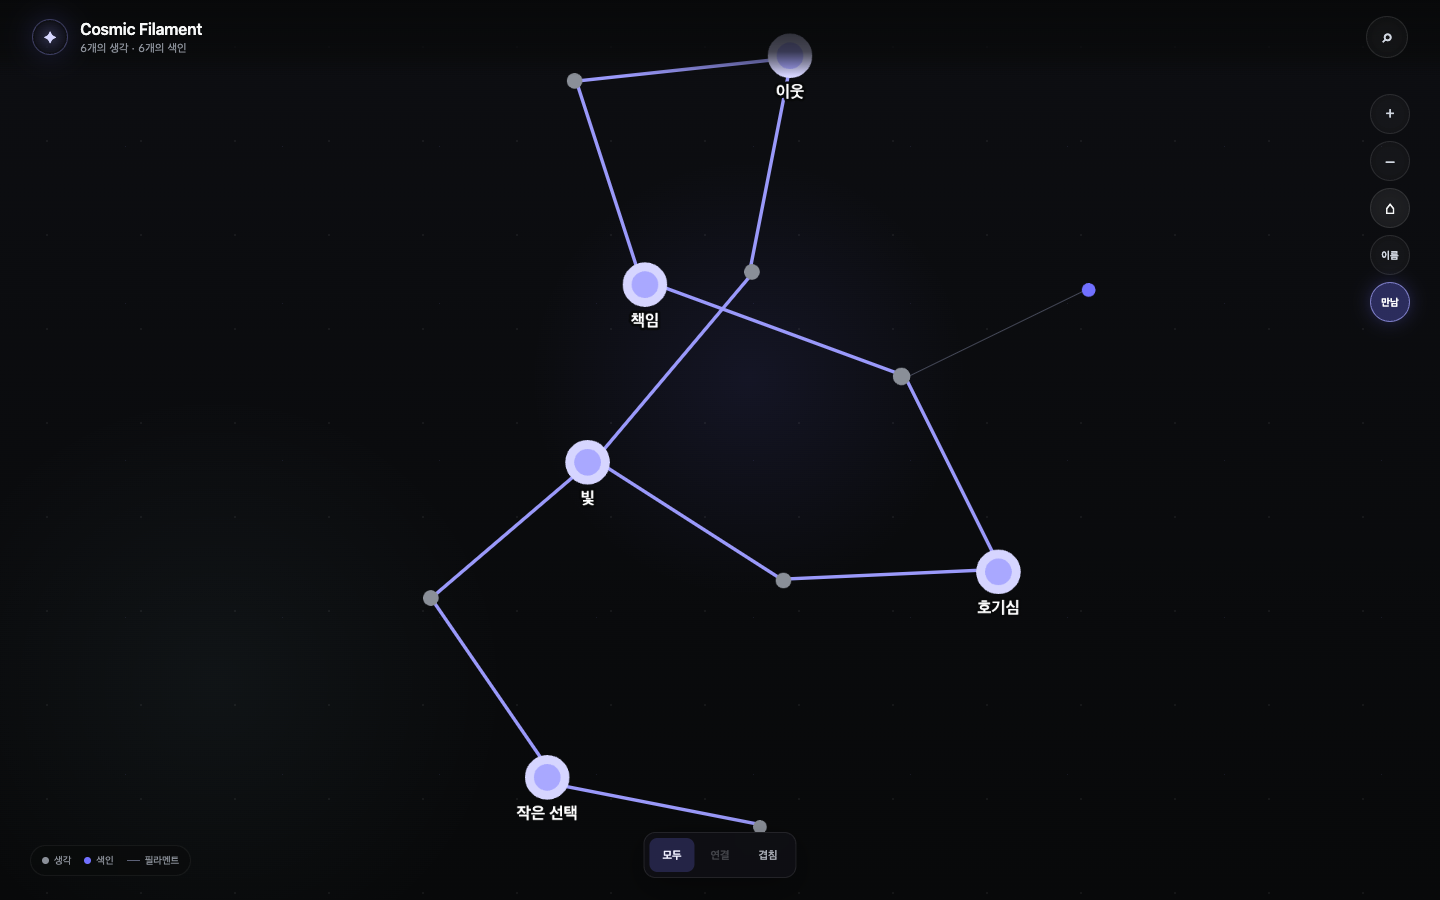
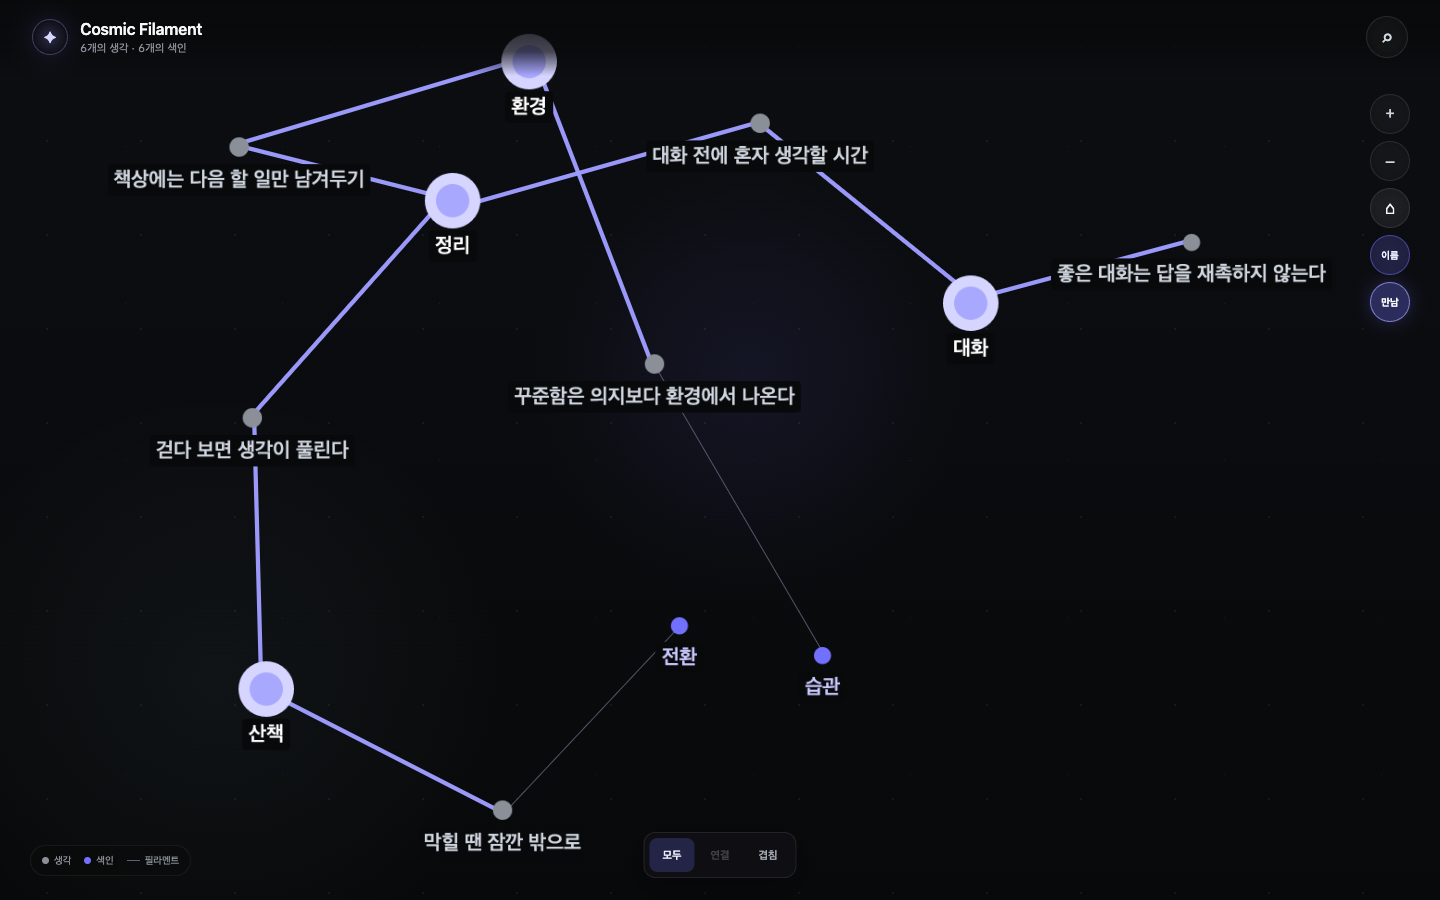
[verified] polish public example graph

diff --git a/src/components/GraphCanvas.tsx b/src/components/GraphCanvas.tsx
@@ -30,6 +30,10 @@ const graphStyle = [
       'text-opacity': 0,
       'text-outline-color': '#08090a',
       'text-outline-width': 2,
+      'text-background-color': '#08090a',
+      'text-background-opacity': 1,
+      'text-background-padding': 3,
+      'text-background-shape': 'roundrectangle',
       'text-valign': 'bottom',
       'text-margin-y': 7,
       width: 'mapData(connectionCount, 0, 8, 8, 18)',

diff --git a/public/cards/thought-light-kept-alive.md b/public/cards/thought-light-kept-alive.md
@@ -1,6 +1,7 @@
-# 나이 들어도 눈빛을 잃지 않으려면
+# 꾸준함은 의지보다 환경에서 나온다
 
-나이가 들어도 새로운 이야기에 눈을 반짝이는 사람이 있다.
-익숙한 것을 다 안다고 넘기지 않고 계속 궁금해하는 태도가 그 사람의 눈빛을 지켜주는 것 같다.
+무언가를 오래 하려면 매번 마음을 다잡아야 한다고 생각했다. 실제로는 시작하기 쉬운 자리를 만들어 두는 편이 더 도움이 됐다.
+
+운동복을 꺼내 두거나 읽을 책을 책상 위에 놓아두는 작은 준비가 다음 행동을 가볍게 만든다.
 
 > 이 카드는 공개 저장소용 가상 데이터입니다.

diff --git a/public/cards/thought-table-between-stars.md b/public/cards/thought-table-between-stars.md
@@ -1,6 +1,7 @@
-# 한 식탁에서 이웃이 되는 순간
+# 좋은 대화는 답을 재촉하지 않는다
 
-서로 살아온 방식이 달라도 한 식탁에 앉아 밥을 먹고 이야기를 나누면 조금씩 가까워진다.
-처음에는 낯설었던 사람의 표정이 밝아지고, 어느새 다음 만남을 자연스럽게 떠올리게 된다.
+대화가 꼭 결론으로 끝나야 하는 건 아니다. 어떤 이야기는 바로 정리하지 않고 잠시 그대로 두어야 더 잘 이해된다.
+
+침묵이 생겨도 불편하지 않고, 다음 말을 서두르지 않아도 되는 대화가 오래 남는다.
 
 > 이 카드는 공개 저장소용 가상 데이터입니다.

diff --git a/public/cards/thought-signal-in-darkness.md b/public/cards/thought-signal-in-darkness.md
@@ -1,6 +1,7 @@
-# 눈에 보이지 않아도 쌓이는 것
+# 걷다 보면 생각이 풀린다
 
-별다른 변화가 없는 날에는 내가 제대로 가고 있는지 의심하게 된다.
-그래도 오늘 한 작은 선택은 사라지지 않는다. 당장은 빛이 보이지 않아도, 그 선택이 다음 선택을 조금은 바꾼다.
+머릿속에서 같은 생각이 계속 맴돌 때가 있다. 그럴 때는 책상에 더 오래 앉아 있기보다 동네를 한 바퀴 걷는 편이 낫다.
+
+걷는 동안 당장 답을 찾지는 못해도, 뒤엉켜 있던 생각의 순서는 조금씩 보이기 시작한다.
 
 > 이 카드는 공개 저장소용 가상 데이터입니다.

diff --git a/public/cards/thought-patient-orbit.md b/public/cards/thought-patient-orbit.md
@@ -1,6 +1,7 @@
-# 천천히 가도 계속 가는 쪽
+# 막힐 땐 잠깐 밖으로
 
-빨리 달라지는 건 눈에 잘 띈다. 하지만 무리해서 잠깐 달리는 것보다 내일도 할 수 있는 방식을 찾는 편이 오래 간다.
-속도가 조금 느려도 계속 돌아올 수 있다면, 결국 더 멀리 갈 수 있지 않을까.
+한 문제를 오래 붙들고 있으면 더 열심히 보는 것만이 답처럼 느껴진다. 하지만 같은 자리에서는 같은 생각만 반복될 때가 많다.
+
+잠깐 밖에 나갔다 돌아오면 문제는 그대로여도 보는 각도는 달라진다.
 
 > 이 카드는 공개 저장소용 가상 데이터입니다.

diff --git a/public/cards/thought-question-as-telescope.md b/public/cards/thought-question-as-telescope.md
@@ -1,6 +1,7 @@
-# 질문은 방향을 찾는 일
+# 대화 전에 혼자 생각할 시간
 
-질문을 오래 붙잡는 일이 답을 피하는 핑계가 될 때도 있다.
-좋은 질문이라면 무엇을 더 봐야 하는지 알려주고, 결국에는 내가 갈 방향을 선택하게 해야 한다.
+내 생각이 정리되지 않은 채 대화를 시작하면 상대의 말을 듣기보다 바로 답할 준비부터 하게 된다.
+
+혼자 생각할 시간을 먼저 가진 날에는, 내 입장을 지키느라 애쓰지 않고 상대의 말을 끝까지 듣게 된다.
 
 > 이 카드는 공개 저장소용 가상 데이터입니다.

diff --git a/public/cards/thought-value-arrives.md b/public/cards/thought-value-arrives.md
@@ -1,6 +1,7 @@
-# 좋은 건 결국 누군가에게 닿아야 한다
+# 책상에는 다음 할 일만 남겨두기
 
-무언가를 잘 만들었다고 일이 끝나는 건 아니다.
-필요한 사람이 발견하고 실제로 쓸 수 있게 만드는 일까지 해야 비로소 그 가치가 드러난다.
+책상 위에 해야 할 일이 모두 펼쳐져 있으면 무엇부터 시작할지 고르는 데 힘을 쓴다.
+
+지금 하지 않을 것은 치우고, 다음에 할 것 하나만 남겨두자. 시작할 때 필요한 결정이 하나 줄어든다.
 
 > 이 카드는 공개 저장소용 가상 데이터입니다.
